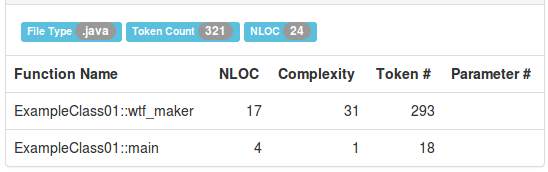
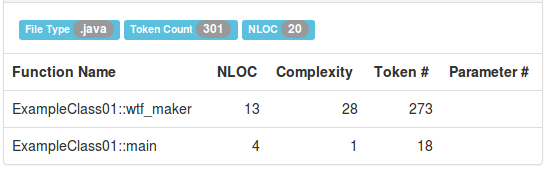
Poprawienie prezentacji WTFCode.

diff --git a/src/ExampleClass01.java b/src/ExampleClass01.java
@@ -2,17 +2,13 @@ class ExampleClass01
 {
   public static int wtf_maker(int a, int b, int c)
   {
-    if (a >= 0 && b >= 0 && c >= 0)
-    {
-      if (a == 0 && b == 0 && c == 0) return 0;
-      else wtf_maker(a-1, b-1, c-1);
-    }
-    else if (a >= 0 && b >= 0 && c < 0) wtf_maker(a-1, b-1, c+1);
-    else if (a >= 0 && b < 0 && c >= 0) wtf_maker(a-1, b+1, c-1);
-    else if (a >= 0 && b < 0 && c < 0) wtf_maker(a-1, b+1, c+1);
-    else if (a < 0 && b >= 0 && c >= 0) wtf_maker(a+1, b-1, c-1);
-    else if (a < 0 && b >= 0 && c < 0) wtf_maker(a+1, b-1, c+1);
-    else if (a < 0 && b < 0 && c >= 0) wtf_maker(a+1, b+1, c-1);
+    if (a > 0 && b > 0 && c > 0) wtf_maker(a-1, b-1, c-1);
+    else if (a > 0 && b > 0 && c < 0) wtf_maker(a-1, b-1, c+1);
+    else if (a > 0 && b < 0 && c > 0) wtf_maker(a-1, b+1, c-1);
+    else if (a > 0 && b < 0 && c < 0) wtf_maker(a-1, b+1, c+1);
+    else if (a < 0 && b > 0 && c > 0) wtf_maker(a+1, b-1, c-1);
+    else if (a < 0 && b > 0 && c < 0) wtf_maker(a+1, b-1, c+1);
+    else if (a < 0 && b < 0 && c > 0) wtf_maker(a+1, b+1, c-1);
     else if (a < 0 && b < 0 && c < 0) wtf_maker(a+1, b+1, c+1);
     else if (a == 0 && b == 0 && c == 0) return 0;
     return 0;
